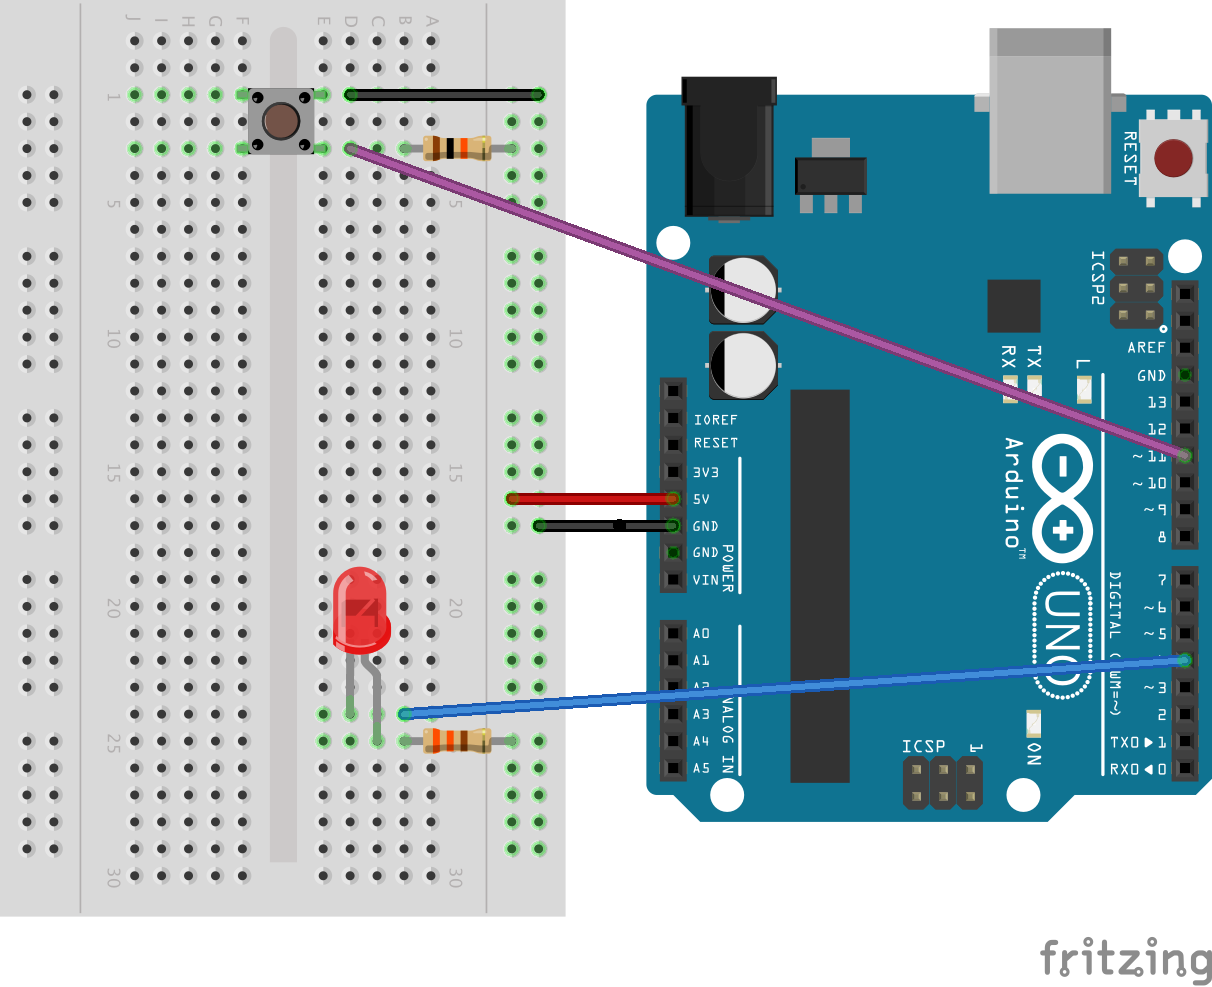
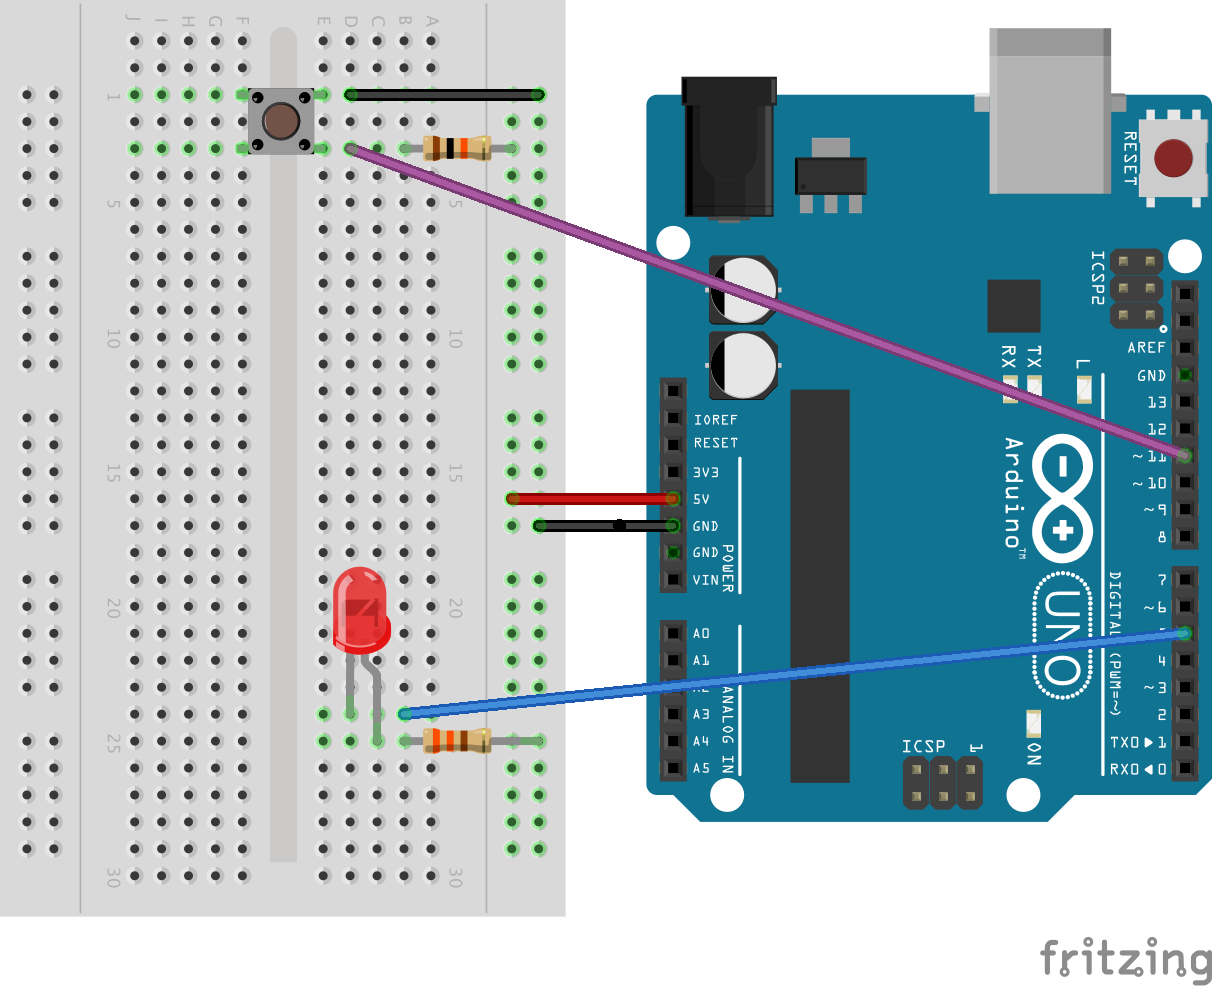
update

Changed region(s): [[0.3358, 0.6383, 1.0, 0.7599]]

diff --git a/solutions/05_keyboard_led_and_servo.js b/solutions/05_keyboard_led_and_servo.js
@@ -9,40 +9,71 @@ myBoard.on("ready", function() {
 
    myServo = new five.Servo(11);
 
-   myLed = new five.Led(4);
+   myLed = new five.Led(5);
+
+   myLed.brightness(brightness);
 
    process.stdin.resume();
    process.stdin.setEncoding("utf8");
    process.stdin.setRawMode(true);
 
    process.stdin.on("keypress", function(ch, key) {
-      if (!key) {
-        return;
+
+      if ( key.name === 'left' ) {
+        console.log('...Moving Servo Left');
+        adjustServo(10);
       }
 
-      if ( key.name === 'l' ) {
-        console.log('Moving Servo Left');
-        servo.step(10);
+      if ( key.name === 'right' ) {
+        console.log('...Moving Servo Right');
+        adjustServo(-10);
       }
 
-      if ( key.name === 'r' ) {
-        console.log('Moving Servo Right');
-        servo.step(-10);
+      if ( key.name === 'space' ) {
+        console.log('...Centering Servo');
+        myServo.center();
       }
 
-      if ( key.name === 'c' ) {
-        console.log('Centering Servo');
-        servo.center();
+      if ( key.name === 'up' ) {
+        adjustLedBrightness(20);
       }
 
-      if ( key.name === '+' ) {
-        console.log('Brightening LED');
-        led.brightness(brightness + 50);
-      }
-
-      if ( key.name === '-' ) {
-        console.log('Dimming LED');
-        led.brightness(brightness - 50);
+      if ( key.name === 'down' ) {
+        adjustLedBrightness(-20);
       }
    });
  });
+
+ function adjustLedBrightness(adjustment){
+
+   brightness += adjustment;
+
+   if (brightness <= 0) {
+     console.log('...LED cannot be dimmed futher');
+     brightness = 0;
+   }else if (brightness >= 255) {
+     console.log('...LED cannot be brightened futher');
+     brightness = 255;
+   }else{
+     console.log('...Adjusting LED to ['+brightness+']');
+   }
+
+   myLed.brightness(brightness);
+ }
+
+ function adjustServo(adjustment){
+
+   myServo.position
+
+   if (myServo.position <= 0 ) {
+     console.log('...Servo cannot be moved further in that direction');
+     brightness = 0;
+   }else if (myServo.position >= 180) {
+     console.log('...Servo cannot be moved further in that direction');
+     myServo.position = 180;
+   }else{
+     console.log('...Adjusting Servo to angle ['+angle+']');
+   }
+
+   myServo.step(adjustment);
+ }

diff --git a/solutions/04_potentiometer_led_and_servo.js b/solutions/04_potentiometer_led_and_servo.js
@@ -6,7 +6,7 @@ myBoard.on("ready", function() {
 
   myServo = new five.Servo(11);
 
-  myLed = new five.Led(4);
+  myLed = new five.Led(5);
 
   myPotentiometer = new five.Sensor({
     pin: "A0",

diff --git a/solutions/03_led_and_button.js b/solutions/03_led_and_button.js
@@ -5,7 +5,7 @@ myBoard = new five.Board();
 
 myBoard.on("ready", function() {
 
-  myLed = new five.Led(4);
+  myLed = new five.Led(5);
 
   myButton = new five.Button(11)
 

diff --git a/exercises/05_keyboard_led_and_servo.md b/exercises/05_keyboard_led_and_servo.md
@@ -41,6 +41,7 @@ This is where the Node.js comes in handy!  The [keypress Node.js module](https:/
         var five = require("johnny-five");
         var keypress = require("keypress");
         var myBoard, myServo;
+        var brightness = 0;
 
         keypress(process.stdin);
         myBoard = new five.Board();
@@ -48,22 +49,75 @@ This is where the Node.js comes in handy!  The [keypress Node.js module](https:/
 
            myServo = new five.Servo(11);
 
-           myLed = new five.Led(4);
+           myLed = new five.Led(5);
+
+           myLed.brightness(brightness);
 
            process.stdin.resume();
            process.stdin.setEncoding("utf8");
            process.stdin.setRawMode(true);
 
            process.stdin.on("keypress", function(ch, key) {
-              if (!key) {
-                return;
+
+              if ( key.name === 'left' ) {
+                console.log('...Moving Servo Left');
+                adjustServo(10);
               }
 
-              // Code to control the LED and Servo (+, -, l, r and c)
+              if ( key.name === 'right' ) {
+                console.log('...Moving Servo Right');
+                adjustServo(-10);
+              }
 
+              if ( key.name === 'space' ) {
+                console.log('...Centering Servo');
+                myServo.center();
+              }
+
+              if ( key.name === 'up' ) {
+                adjustLedBrightness(20);
+              }
+
+              if ( key.name === 'down' ) {
+                adjustLedBrightness(-20);
+              }
            });
-
          });
+
+         function adjustLedBrightness(adjustment){
+
+           brightness += adjustment;
+
+           if (brightness <= 0) {
+             console.log('...LED cannot be dimmed futher');
+             brightness = 0;
+           }else if (brightness >= 255) {
+             console.log('...LED cannot be brightened futher');
+             brightness = 255;
+           }else{
+             console.log('...Adjusting LED to ['+brightness+']');
+           }
+
+           myLed.brightness(brightness);
+         }
+
+         function adjustServo(adjustment){
+
+           myServo.position
+
+           if (myServo.position <= 0 ) {
+             console.log('...Servo cannot be moved further in that direction');
+             brightness = 0;
+           }else if (myServo.position >= 180) {
+             console.log('...Servo cannot be moved further in that direction');
+             myServo.position = 180;
+           }else{
+             console.log('...Adjusting Servo to angle ['+angle+']');
+           }
+
+           myServo.step(adjustment);
+         }
+
 3. Save the file.
 4. Make sure your Arduino UNO is connected to your PC.
 5. In the command prompt, navigate to your *johnny_five_intro root directory* and run the command "node 05_keyboard_led_and_servo.js".

diff --git a/exercises/04_potentiometer_led_and_servo.md b/exercises/04_potentiometer_led_and_servo.md
@@ -44,7 +44,7 @@ We'll explain more about this in the learning summary.
 
            myServo = new five.Servo(11);
 
-           myLed = new five.Led(4);
+           myLed = new five.Led(5);
 
            myPotentiometer = new five.Sensor({
               pin: "A0",
@@ -88,7 +88,7 @@ In this example the code did the following:
 * Imported the Johnny-Five module.
 * Set up the Arduino UNO Board and waited for the Board to return a "ready" event before continuing.
 * Instantiated the Servo Object (connected to the Digital PWM Pin 11 on the Arduino UNO).  The 256 different output values supported by the PWM Pin tell the Servo to move to a variety of positions.
-* Instantiated the LED Object (connected to the Digital PWM Pin 4 on the Arduino UNO).  The 256 different values supported by the PWM Pin will make LED light up with different intensities.
+* Instantiated the LED Object (connected to the Digital PWM Pin 5 on the Arduino UNO).  The 256 different values supported by the PWM Pin will make LED light up with different intensities.
 * Instantiated a Sensor Object to represent the Potentiomenter (connected to the Analog Pin "A0" on the Arduino UNO).  This allows for a range of inputs from 0 to 1024, depending on the position of the Potentiomenter.
     * Note that the 'freq' parameter refers to how often the Sensor will be read.
 * On events from the Potentiometer:

diff --git a/exercises/03_led_and_button.md b/exercises/03_led_and_button.md
@@ -39,7 +39,7 @@ Note the usage of resistors in this circuit:
 
         myBoard.on("ready", function() {
 
-          myLed = new five.Led(4);
+          myLed = new five.Led(5);
 
           myButton = new five.Button(11)
 
@@ -81,7 +81,7 @@ You also learned more about the various methods supported by the LED Class, the 
 In this example the code did the following:
  * Imported the Johnny-Five module.
  * Set up the Arduino UNO Board and waited for the Board to return a "ready" event before continuing.
- * Instantiated the LED Object (connected to Pin 4 on the Arduino UNO).
+ * Instantiated the LED Object (connected to Pin 5 on the Arduino UNO).
  * Instantiated the Button Object (connected to Pin 11 on the Arduino UNO).
  * On events from the Button (press and release), triggered the fadeIn and fadeOut commands on the LED.
  * Added the LED to the Johnny-Five REPL.
